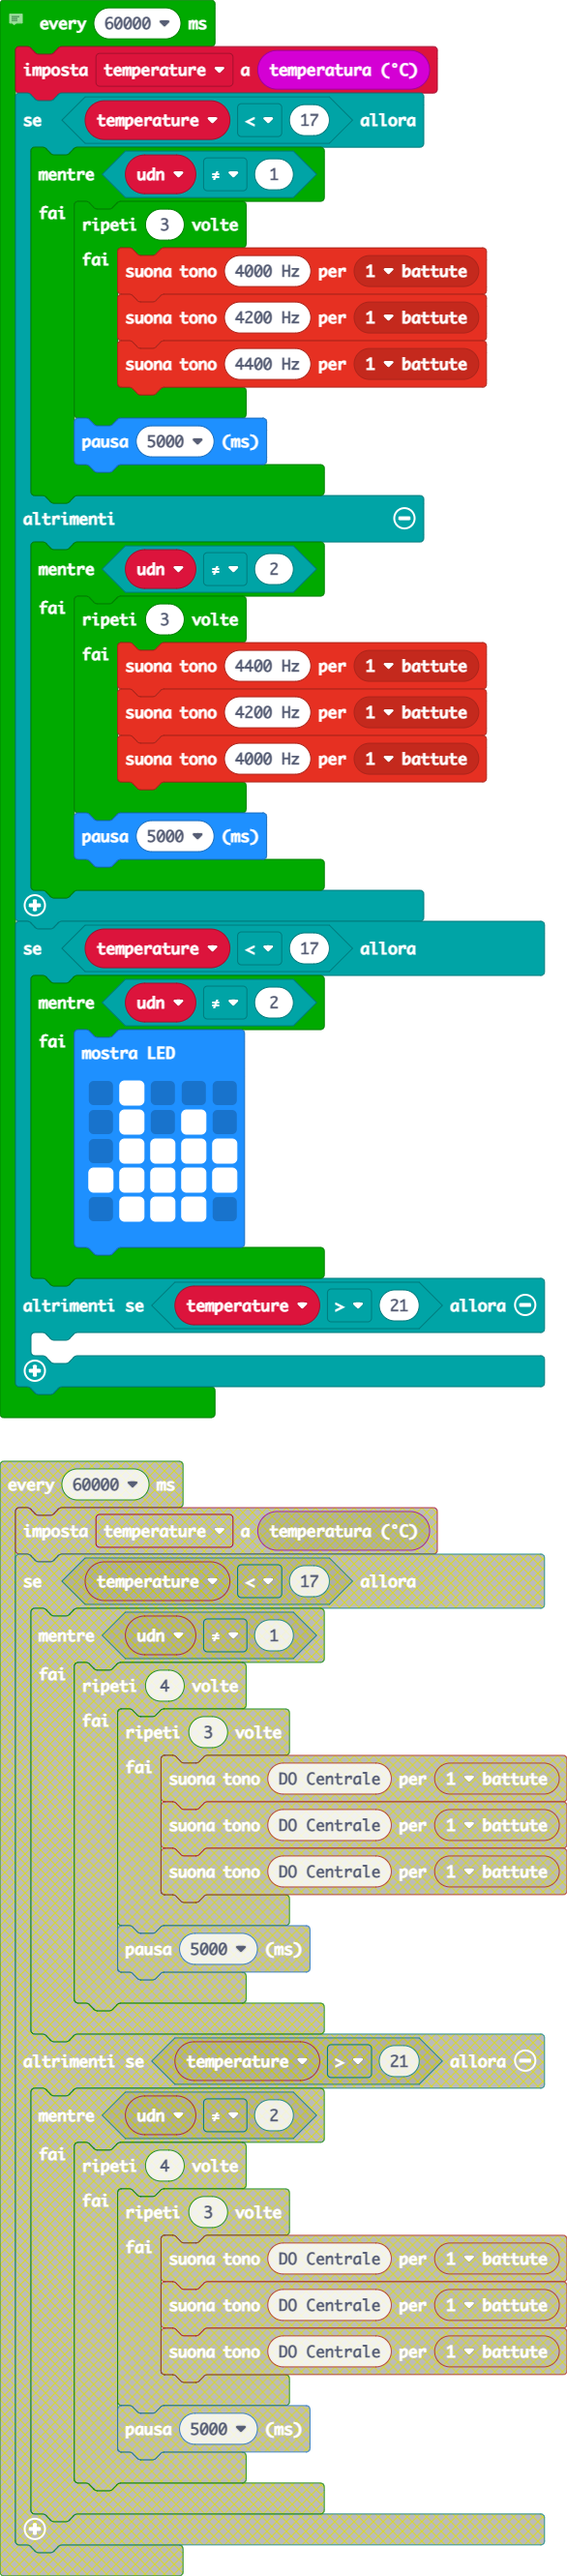
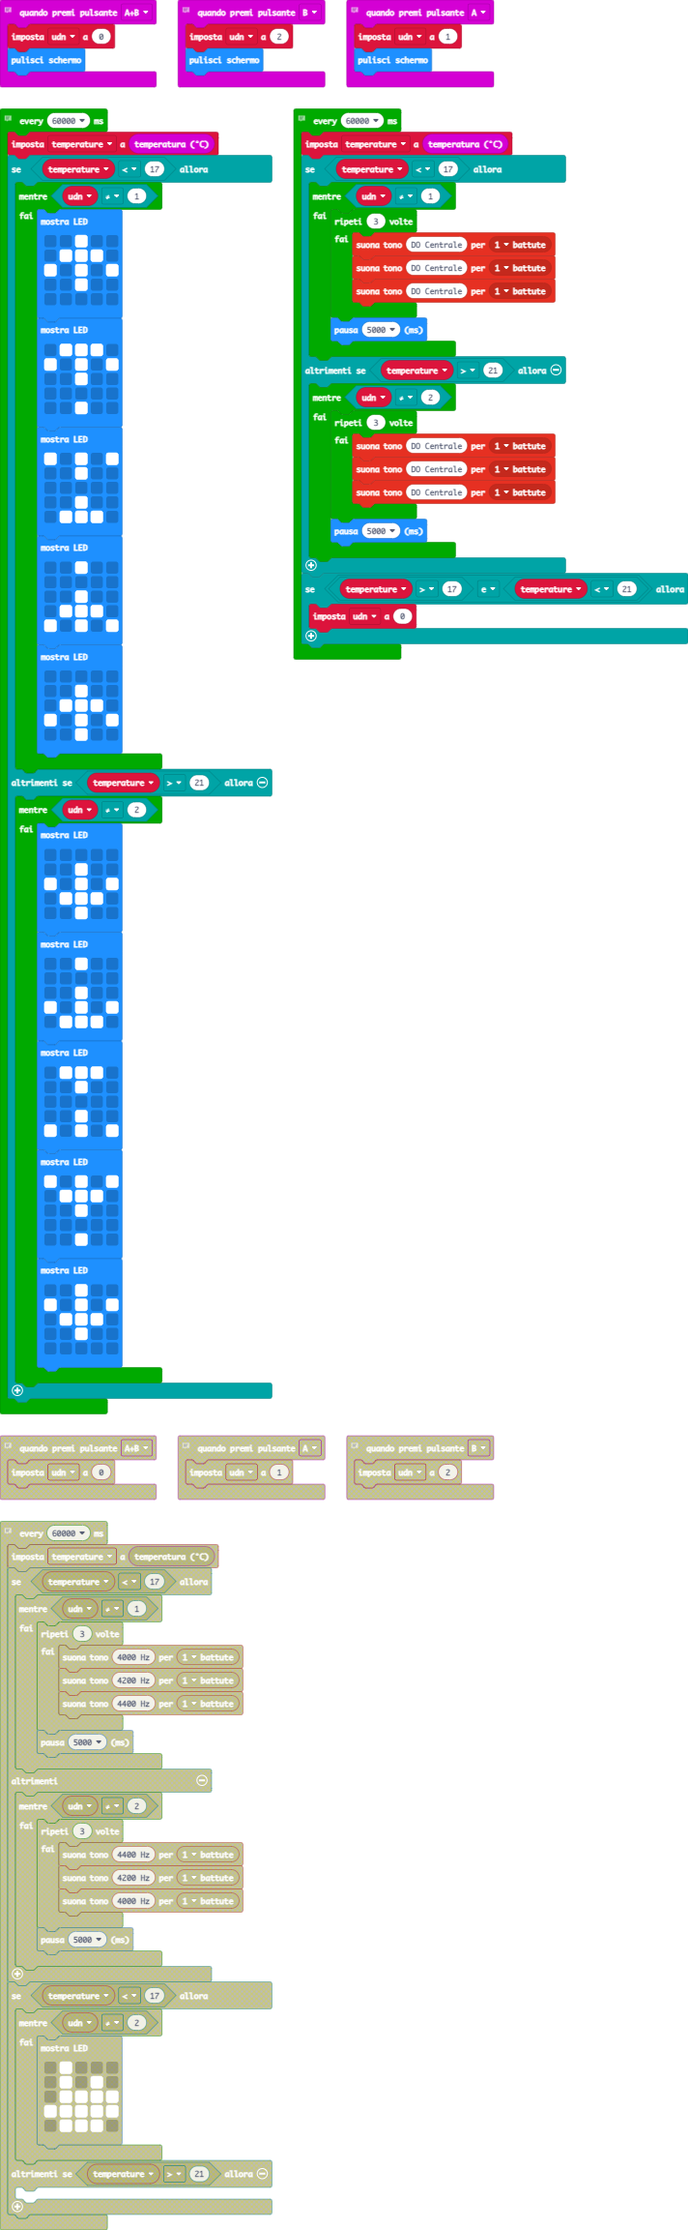
added LEDs and animations

diff --git a/main.ts b/main.ts
@@ -3,14 +3,98 @@ let temperature = 0
 // ignore low
 input.onButtonPressed(Button.A, function () {
     udn = 1
+    basic.clearScreen()
 })
 // all
 input.onButtonPressed(Button.AB, function () {
     udn = 0
+    basic.clearScreen()
 })
 // ignore high
 input.onButtonPressed(Button.B, function () {
     udn = 2
+    basic.clearScreen()
+})
+// leds if temperature not ideal
+loops.everyInterval(60000, function () {
+    temperature = input.temperature()
+    if (temperature < 17) {
+        while (udn != 1) {
+            basic.showLeds(`
+                . . # . .
+                . # # # .
+                # . # . #
+                . . # . .
+                . . . . .
+                `)
+            basic.showLeds(`
+                . # # # .
+                # . # . #
+                . . # . .
+                . . . . .
+                . . # . .
+                `)
+            basic.showLeds(`
+                # . # . #
+                . . # . .
+                . . . . .
+                . . # . .
+                . # # # .
+                `)
+            basic.showLeds(`
+                . . # . .
+                . . . . .
+                . . # . .
+                . # # # .
+                # . # . #
+                `)
+            basic.showLeds(`
+                . . . . .
+                . . # . .
+                . # # # .
+                # . # . #
+                . . # . .
+                `)
+        }
+    } else if (temperature > 21) {
+        while (udn != 2) {
+            basic.showLeds(`
+                . . . . .
+                . . # . .
+                # . # . #
+                . # # # .
+                . . # . .
+                `)
+            basic.showLeds(`
+                . . # . .
+                . . . . .
+                . . # . .
+                # . # . #
+                . # # # .
+                `)
+            basic.showLeds(`
+                . # # # .
+                . . # . .
+                . . . . .
+                . . # . .
+                # . # . #
+                `)
+            basic.showLeds(`
+                # . # . #
+                . # # # .
+                . . # . .
+                . . . . .
+                . . # . .
+                `)
+            basic.showLeds(`
+                . . # . .
+                # . # . #
+                . # # # .
+                . . # . .
+                . . . . .
+                `)
+        }
+    }
 })
 // sound if temperature not ideal
 loops.everyInterval(60000, function () {
@@ -18,33 +102,23 @@ loops.everyInterval(60000, function () {
     if (temperature < 17) {
         while (udn != 1) {
             for (let index = 0; index < 3; index++) {
-                music.playTone(4000, music.beat(BeatFraction.Whole))
-                music.playTone(4200, music.beat(BeatFraction.Whole))
-                music.playTone(4400, music.beat(BeatFraction.Whole))
+                music.playTone(262, music.beat(BeatFraction.Whole))
+                music.playTone(262, music.beat(BeatFraction.Whole))
+                music.playTone(262, music.beat(BeatFraction.Whole))
             }
             basic.pause(5000)
         }
-    } else {
+    } else if (temperature > 21) {
         while (udn != 2) {
             for (let index = 0; index < 3; index++) {
-                music.playTone(4400, music.beat(BeatFraction.Whole))
-                music.playTone(4200, music.beat(BeatFraction.Whole))
-                music.playTone(4000, music.beat(BeatFraction.Whole))
+                music.playTone(262, music.beat(BeatFraction.Whole))
+                music.playTone(262, music.beat(BeatFraction.Whole))
+                music.playTone(262, music.beat(BeatFraction.Whole))
             }
             basic.pause(5000)
         }
     }
-    if (temperature < 17) {
-        while (udn != 2) {
-            basic.showLeds(`
-                . # . . .
-                . # . # .
-                . # # # #
-                # # # # #
-                . # # # .
-                `)
-        }
-    } else if (temperature > 21) {
-    	
+    if (temperature > 17 && temperature < 21) {
+        udn = 0
     }
 })

diff --git a/main.py b/main.py
@@ -5,6 +5,7 @@ temperature = 0
 def on_button_pressed_a():
     global udn
     udn = 1
+    basic.clear_screen()
 input.on_button_pressed(Button.A, on_button_pressed_a)
 
 # all
@@ -12,6 +13,7 @@ input.on_button_pressed(Button.A, on_button_pressed_a)
 def on_button_pressed_ab():
     global udn
     udn = 0
+    basic.clear_screen()
 input.on_button_pressed(Button.AB, on_button_pressed_ab)
 
 # ignore high
@@ -19,25 +21,109 @@ input.on_button_pressed(Button.AB, on_button_pressed_ab)
 def on_button_pressed_b():
     global udn
     udn = 2
+    basic.clear_screen()
 input.on_button_pressed(Button.B, on_button_pressed_b)
 
-#sound if temperature not ideal
+# sound if temperature not ideal
 
 def on_every_interval():
-    global temperature
+    global temperature, udn
     temperature = input.temperature()
     if temperature < 17:
         while udn != 1:
             for index in range(3):
-                music.play_tone(262, music.beat(BeatFraction.WHOLE))
-                music.play_tone(262, music.beat(BeatFraction.WHOLE))
-                music.play_tone(262, music.beat(BeatFraction.WHOLE))
+                music.play_tone(4000, music.beat(BeatFraction.WHOLE))
+                music.play_tone(4200, music.beat(BeatFraction.WHOLE))
+                music.play_tone(4400, music.beat(BeatFraction.WHOLE))
             basic.pause(5000)
     elif temperature > 21:
         while udn != 2:
             for index2 in range(3):
-                music.play_tone(262, music.beat(BeatFraction.WHOLE))
-                music.play_tone(262, music.beat(BeatFraction.WHOLE))
-                music.play_tone(262, music.beat(BeatFraction.WHOLE))
+                music.play_tone(4400, music.beat(BeatFraction.WHOLE))
+                music.play_tone(4200, music.beat(BeatFraction.WHOLE))
+                music.play_tone(4000, music.beat(BeatFraction.WHOLE))
             basic.pause(5000)
+    if temperature > 17 and temperature < 21:
+        udn = 0
 loops.every_interval(60000, on_every_interval)
+
+# leds if temperature not ideal
+
+def on_every_interval2():
+    global temperature
+    temperature = input.temperature()
+    if temperature < 17:
+        while udn != 1:
+            basic.show_leds("""
+                . . # . .
+                                . # # # .
+                                # . # . #
+                                . . # . .
+                                . . . . .
+            """)
+            basic.show_leds("""
+                . # # # .
+                                # . # . #
+                                . . # . .
+                                . . . . .
+                                . . # . .
+            """)
+            basic.show_leds("""
+                # . # . #
+                                . . # . .
+                                . . . . .
+                                . . # . .
+                                . # # # .
+            """)
+            basic.show_leds("""
+                . . # . .
+                                . . . . .
+                                . . # . .
+                                . # # # .
+                                # . # . #
+            """)
+            basic.show_leds("""
+                . . . . .
+                                . . # . .
+                                . # # # .
+                                # . # . #
+                                . . # . .
+            """)
+    elif temperature > 21:
+        while udn != 2:
+            basic.show_leds("""
+                . . . . .
+                                . . # . .
+                                # . # . #
+                                . # # # .
+                                . . # . .
+            """)
+            basic.show_leds("""
+                . . # . .
+                                . . . . .
+                                . . # . .
+                                # . # . #
+                                . # # # .
+            """)
+            basic.show_leds("""
+                . # # # .
+                                . . # . .
+                                . . . . .
+                                . . # . .
+                                # . # . #
+            """)
+            basic.show_leds("""
+                # . # . #
+                                . # # # .
+                                . . # . .
+                                . . . . .
+                                . . # . .
+            """)
+            basic.show_leds("""
+                . . # . .
+                                # . # . #
+                                . # # # .
+                                . . # . .
+                                . . . . .
+            """)
+loops.every_interval(60000, on_every_interval2)
